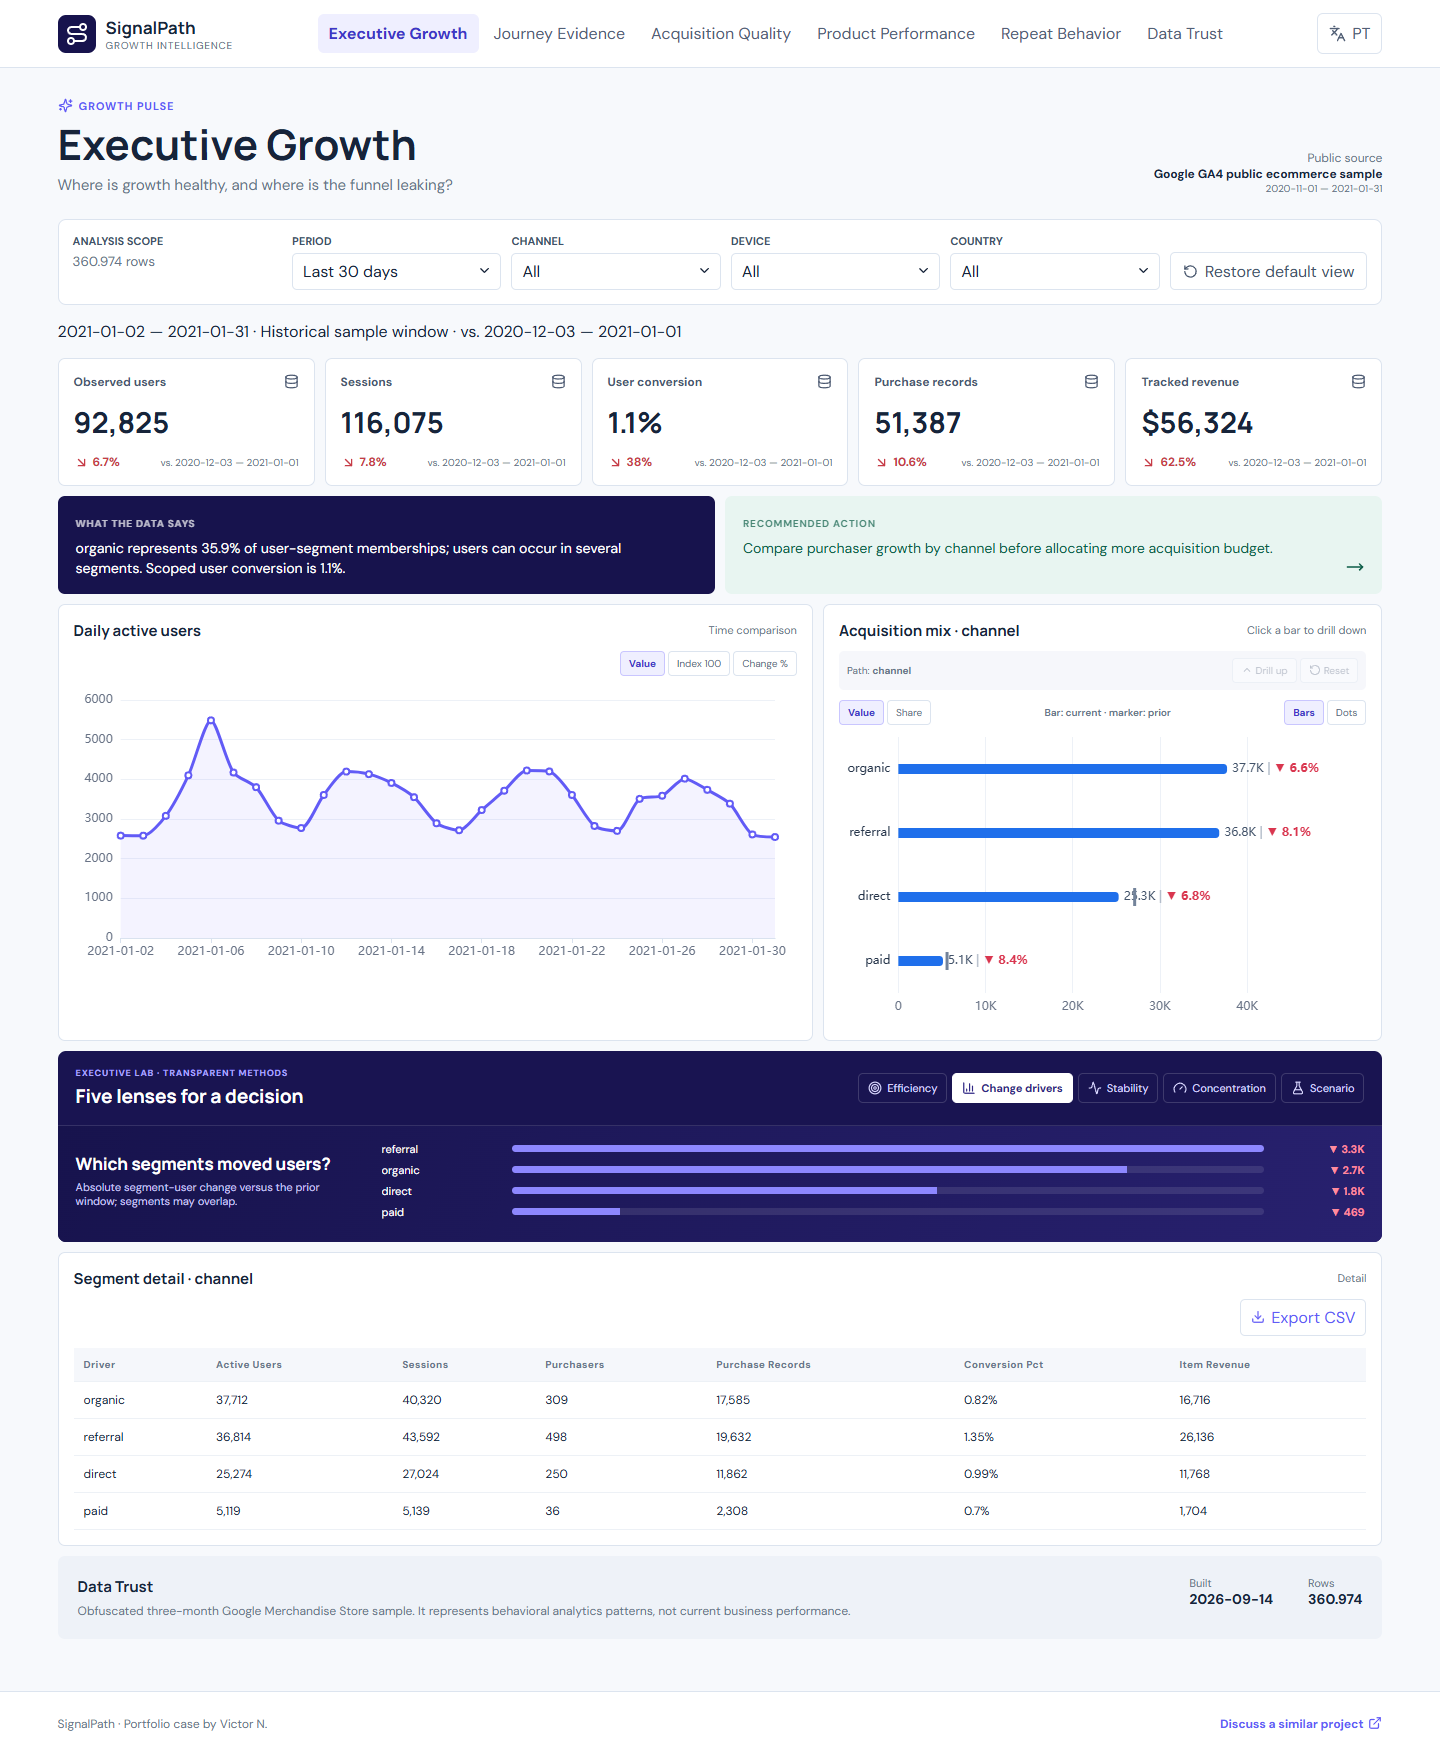
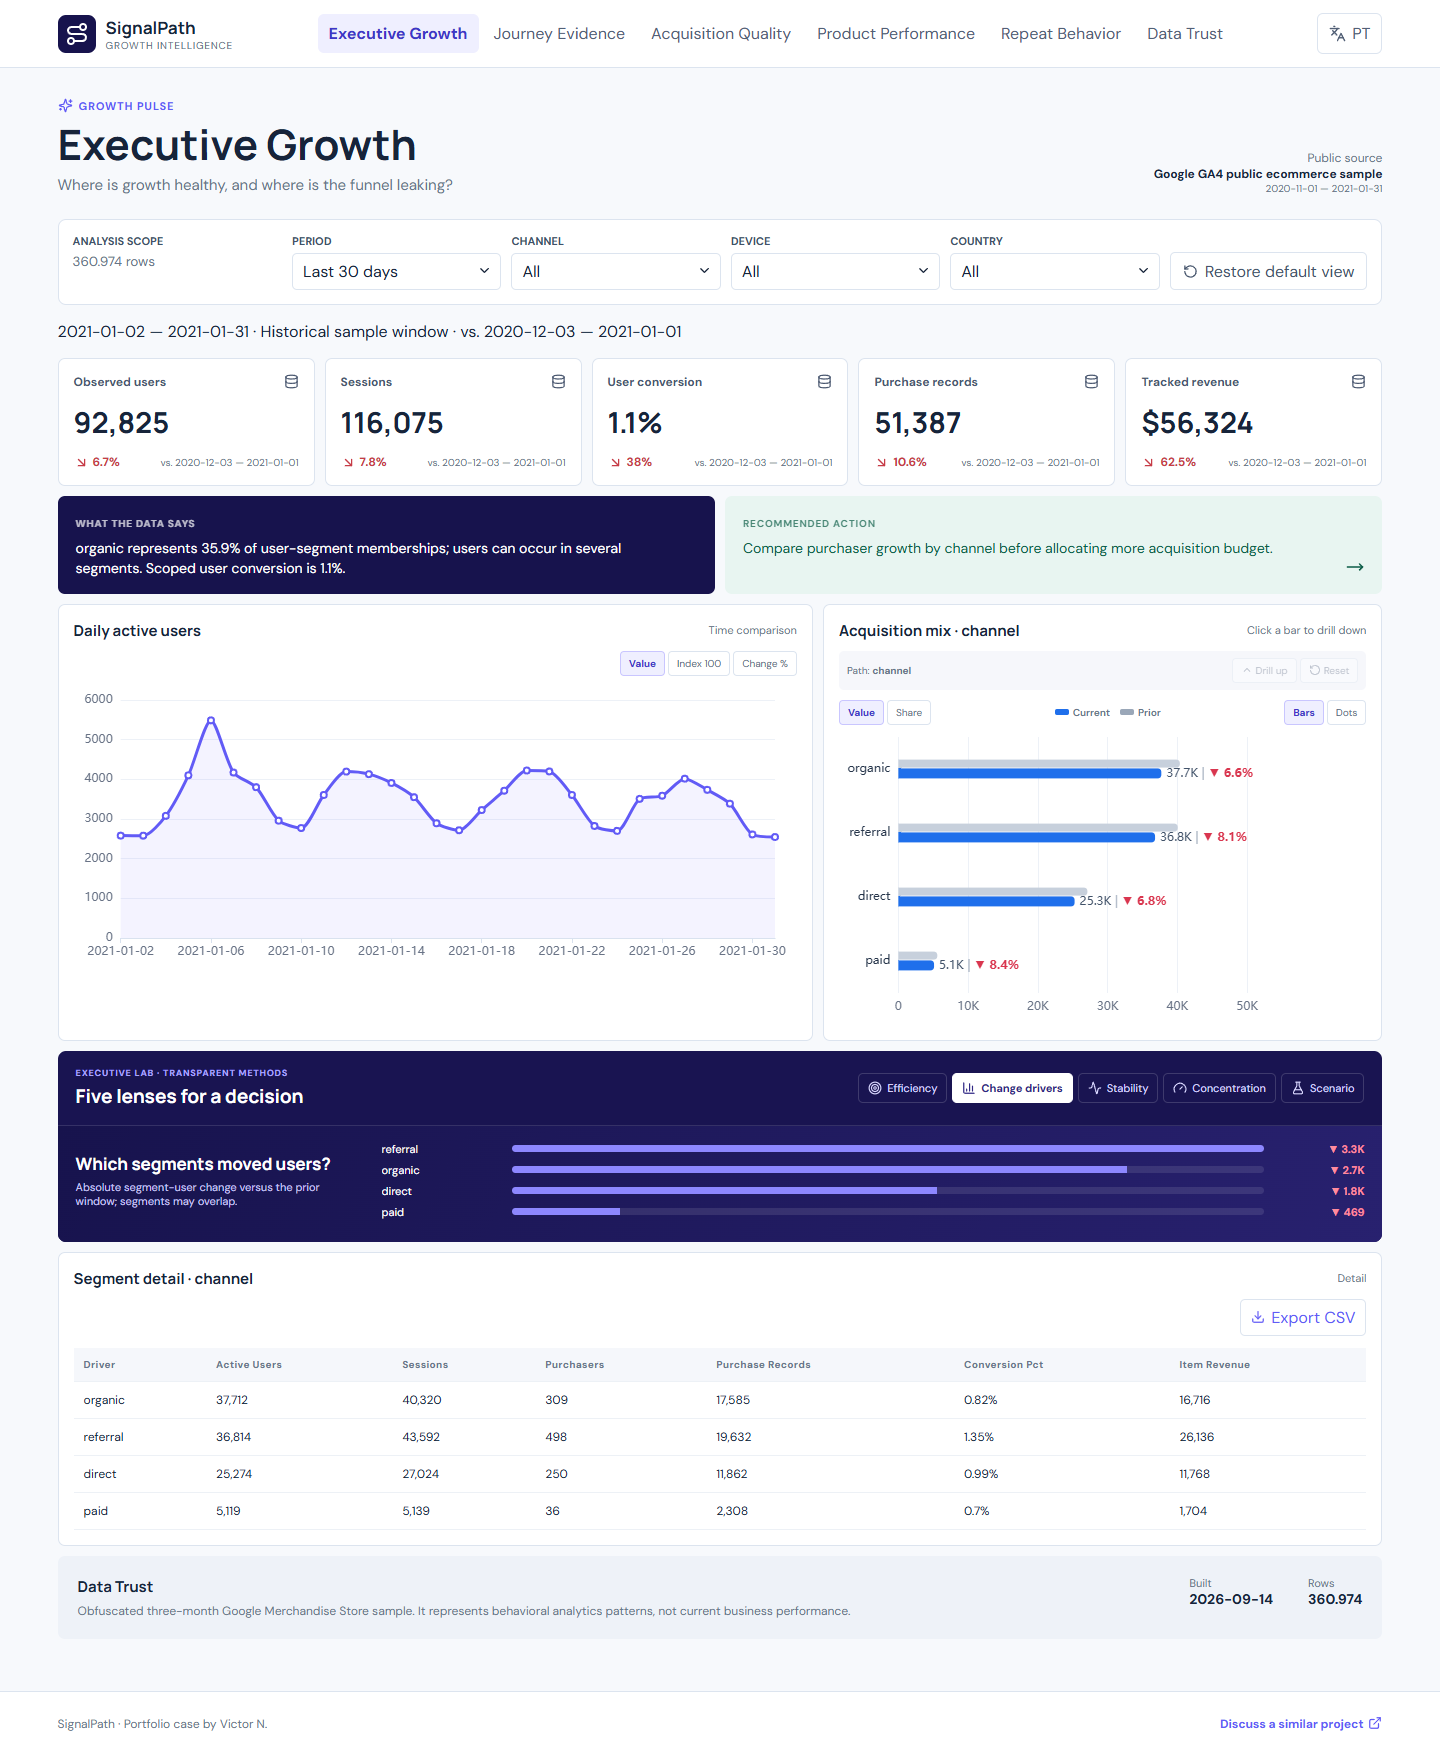
Replace prior markers with grouped comparison bars

Changed region(s): [[0.625, 0.4305, 0.875, 0.5535]]

diff --git a/src/components.tsx b/src/components.tsx
@@ -2,7 +2,7 @@ import { useMemo } from 'react'
 import ReactEChartsCore from 'echarts-for-react/lib/core'
 import * as echarts from 'echarts/core'
 import { BarChart as EBarChart, LineChart as ELineChart, ScatterChart as EScatterChart } from 'echarts/charts'
-import { GridComponent, MarkPointComponent, TooltipComponent } from 'echarts/components'
+import { GridComponent, TooltipComponent } from 'echarts/components'
 import { CanvasRenderer } from 'echarts/renderers'
 import { LegacyGridContainLabel } from 'echarts/features'
 import { flexRender, getCoreRowModel, getSortedRowModel, useReactTable, type SortingState } from '@tanstack/react-table'
@@ -10,7 +10,7 @@ import { ArrowDownRight, ArrowUpRight, Database, Download, MoveRight } from 'luc
 import { useState } from 'react'
 import type { Lang, Metric, SeriesPoint, BreakdownRow } from './types'
 
-echarts.use([EBarChart, ELineChart, EScatterChart, GridComponent, MarkPointComponent, TooltipComponent, LegacyGridContainLabel, CanvasRenderer])
+echarts.use([EBarChart, ELineChart, EScatterChart, GridComponent, TooltipComponent, LegacyGridContainLabel, CanvasRenderer])
 
 const number = (value: number, format: Metric['format'], lang: Lang) => {
   const locale = lang === 'pt' ? 'pt-BR' : 'en-US'
@@ -48,12 +48,12 @@ export function BarChart({ data, lang, onSelect }: { data: BreakdownRow[]; lang:
   type LabelPoint={data:{value:number;previous:number;delta:number;hasPrevious?:boolean;isNew?:boolean}}
   const comparison=(point:LabelPoint,rich=false)=>{const data=point.data;const unit=measure==='share'?' p.p.':'%';if(!data.hasPrevious)return rich?`{neutral|${lang==='pt'?'sem anterior':'no prior'}}`:(lang==='pt'?'sem anterior':'no prior');if(data.isNew)return rich?`{new|${lang==='pt'?'base zero':'zero base'}}`:(lang==='pt'?'base zero':'zero base');if(Math.abs(data.delta)<.05)return rich?`{neutral|• 0.0${unit}}`:`• 0.0${unit}`;const direction=data.delta>0?'▲':'▼',text=`${direction} ${Math.abs(data.delta).toFixed(1)}${unit}`;return rich?`{${data.delta>0?'up':'down'}|${text}}`:text}
   const label=(point:LabelPoint)=>`{value|${format(point.data.value)}} {divider||} ${comparison(point,true)}`
-  const previousMarkers=seriesData.flatMap((row,index)=>row.hasPrevious?[{coord:[row.previous,index],symbol:visual==='bar'?'rect':'circle',symbolSize:visual==='bar'?[3,18]:14}]:[])
-  const marker={silent:true,label:{show:false},itemStyle:{color:'#73839a'},data:previousMarkers}
-  const currentSeries=visual==='bar'?{type:'bar',data:seriesData,barWidth:10,itemStyle:{color:'#1f6feb',borderRadius:[0,4,4,0]},emphasis:{disabled:true},markPoint:marker,z:2,label:{show:true,position:'right',formatter:label,rich:{value:{color:'#415269'},divider:{color:'#aab4c3'},up:{color:'#07855b',fontWeight:700},down:{color:'#d9364f',fontWeight:700},new:{color:'#1f6feb',fontWeight:700},neutral:{color:'#7c8798'}}}}:{type:'scatter',data:seriesData,symbolSize:11,itemStyle:{color:'#625bf6'},emphasis:{disabled:true},markPoint:marker,z:2,label:{show:true,position:'right',formatter:label,rich:{value:{color:'#415269'},divider:{color:'#aab4c3'},up:{color:'#07855b',fontWeight:700},down:{color:'#d9364f',fontWeight:700},new:{color:'#1f6feb',fontWeight:700},neutral:{color:'#7c8798'}}}}
-  const option = { animationDuration: 350, grid: { left: 12, right: 120, top: 12, bottom: 12, containLabel: true }, tooltip: { trigger: 'item',formatter:(p:{name:string}&LabelPoint)=>`${p.name}<br/>${format(p.data.value)} | ${comparison(p)}` }, xAxis: { type: 'value', max:measure==='share'?100:undefined,splitNumber:4,splitLine:{lineStyle:{color:'#edf1f7'}},axisLabel:{color:'#697386',formatter:format}},yAxis:{type:'category',data:sorted.map(d=>d.name),axisLine:{show:false},axisTick:{show:false},axisLabel:{color:'#27364b',width:140,overflow:'truncate'}},series:[currentSeries] }
+  const priorSeries=visual==='bar'?{name:lang==='pt'?'Período anterior':'Prior period',type:'bar',data:seriesData.map(row=>row.hasPrevious?row.previous:null),barWidth:8,itemStyle:{color:'#c7d0dc',borderRadius:[0,4,4,0]},emphasis:{disabled:true}}:{name:lang==='pt'?'Período anterior':'Prior period',type:'scatter',data:seriesData.map(row=>row.hasPrevious?row.previous:null),symbolSize:10,itemStyle:{color:'#fff',borderColor:'#8795a8',borderWidth:2},emphasis:{disabled:true}}
+  const currentSeries=visual==='bar'?{name:lang==='pt'?'Período atual':'Current period',type:'bar',data:seriesData,barWidth:10,itemStyle:{color:'#1f6feb',borderRadius:[0,4,4,0]},emphasis:{disabled:true},z:2,label:{show:true,position:'right',formatter:label,rich:{value:{color:'#415269'},divider:{color:'#aab4c3'},up:{color:'#07855b',fontWeight:700},down:{color:'#d9364f',fontWeight:700},new:{color:'#1f6feb',fontWeight:700},neutral:{color:'#7c8798'}}}}:{name:lang==='pt'?'Período atual':'Current period',type:'scatter',data:seriesData,symbolSize:11,itemStyle:{color:'#625bf6'},emphasis:{disabled:true},z:2,label:{show:true,position:'right',formatter:label,rich:{value:{color:'#415269'},divider:{color:'#aab4c3'},up:{color:'#07855b',fontWeight:700},down:{color:'#d9364f',fontWeight:700},new:{color:'#1f6feb',fontWeight:700},neutral:{color:'#7c8798'}}}}
+  const tooltip=(params:Array<{dataIndex:number}>)=>{const index=params[0]?.dataIndex??0,row=seriesData[index],name=sorted[index]?.name??'',color=row.delta>=0?'#07855b':'#d9364f';return `<b>${name}</b><br/>${lang==='pt'?'Atual':'Current'}: ${format(row.value)}<br/>${lang==='pt'?'Anterior':'Prior'}: ${row.hasPrevious?format(row.previous):'—'}<br/>${lang==='pt'?'Variação':'Change'}: <span style="color:${color};font-weight:700">${comparison({data:row})}</span>`}
+  const option = { animationDuration: 350, grid: { left: 12, right: 120, top: 12, bottom: 12, containLabel: true }, tooltip: { trigger: 'axis',axisPointer:{type:'shadow'},formatter:tooltip }, xAxis: { type: 'value', max:measure==='share'?100:undefined,splitNumber:4,splitLine:{lineStyle:{color:'#edf1f7'}},axisLabel:{color:'#697386',formatter:format}},yAxis:{type:'category',data:sorted.map(d=>d.name),axisLine:{show:false},axisTick:{show:false},axisLabel:{color:'#27364b',width:140,overflow:'truncate'}},series:[priorSeries,currentSeries] }
   const m=lang==='pt'?{value:'Valor',share:'Participação',bar:'Barras',dot:'Pontos'}:{value:'Value',share:'Share',bar:'Bars',dot:'Dots'}
-  return <><div className="chart-modes split"><div>{(['value','share'] as const).map(item=><button className={measure===item?'active':''} onClick={()=>setMeasure(item)} key={item}>{m[item]}</button>)}</div><small className="comparison-key">{lang==='pt'?'Barra: atual · marca: anterior':'Bar: current · marker: prior'}</small><div>{(['bar','dot'] as const).map(item=><button className={visual===item?'active':''} onClick={()=>setVisual(item)} key={item}>{m[item]}</button>)}</div></div><div className="chart-viewport" data-breakdown-signature={sorted.map(row=>`${row.name}:${row.value}:${row.previous??'none'}`).join('|')}><ReactEChartsCore echarts={echarts} option={option} onEvents={onSelect?{click:(params:{name:string})=>onSelect(params.name)}:undefined} style={{height:300,width:'100%'}}/></div></>
+  return <><div className="chart-modes split"><div>{(['value','share'] as const).map(item=><button className={measure===item?'active':''} onClick={()=>setMeasure(item)} key={item}>{m[item]}</button>)}</div><small className="comparison-key"><span><i className="current"/> {lang==='pt'?'Atual':'Current'}</span><span><i className="prior"/> {lang==='pt'?'Anterior':'Prior'}</span></small><div>{(['bar','dot'] as const).map(item=><button className={visual===item?'active':''} onClick={()=>setVisual(item)} key={item}>{m[item]}</button>)}</div></div><div className="chart-viewport" data-breakdown-signature={sorted.map(row=>`${row.name}:${row.value}:${row.previous??'none'}`).join('|')}><ReactEChartsCore echarts={echarts} option={option} onEvents={onSelect?{click:(params:{name:string})=>onSelect(params.name)}:undefined} style={{height:300,width:'100%'}}/></div></>
 }
 
 export function DataGrid({ rows, lang = 'en' }: { rows: Record<string, string | number>[]; lang?: Lang }) {

diff --git a/src/styles.css b/src/styles.css
@@ -23,3 +23,4 @@
 .comparison-key{align-self:center;margin:0 auto;color:#66758a;font-size:10px;font-weight:600;white-space:nowrap}
 @media(max-width:640px){.chart-modes.split{flex-wrap:wrap}.chart-modes.split .comparison-key{order:3;width:100%;margin-top:4px;text-align:right}.chart-modes.split>div{min-width:0}.chart-modes.split button{padding:5px 6px}}
 .chart-viewport{max-width:100%}.chart-viewport>div,.chart-viewport canvas{max-width:100%!important}
+.comparison-key{display:flex;align-items:center;gap:10px}.comparison-key span{display:inline-flex;align-items:center;gap:4px}.comparison-key i{display:inline-block;width:14px;height:6px;border-radius:2px}.comparison-key i.current{background:#1f6feb}.comparison-key i.prior{background:#9aa7b8}

diff --git a/docs/DASHBOARD_QUALITY_REVIEW.md b/docs/DASHBOARD_QUALITY_REVIEW.md
@@ -14,7 +14,7 @@
 ## Visual and analytical rules
 
 - KPI cards summarize the selected period; charts explain time and segment structure.
-- Bars show the current period and compact reference markers show the comparable prior period.
+- Grouped bars show current and comparable prior periods side by side; the tooltip reports both values and their change.
 - Green and red encode favorable and unfavorable movement according to metric semantics.
 - The five-lens lab provides efficiency, change drivers, stability, concentration and scenario views without generative AI.
 - Journey stages are independent event audiences. They are not a certified sequential funnel.
